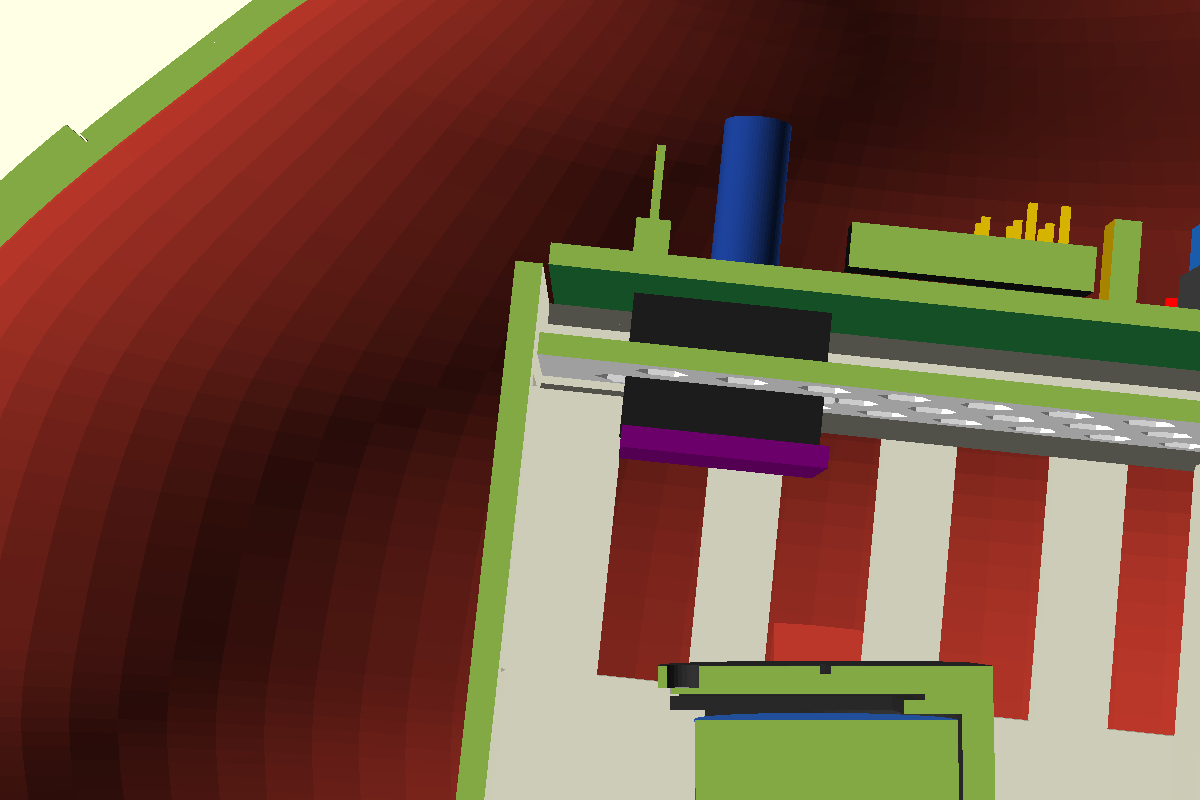
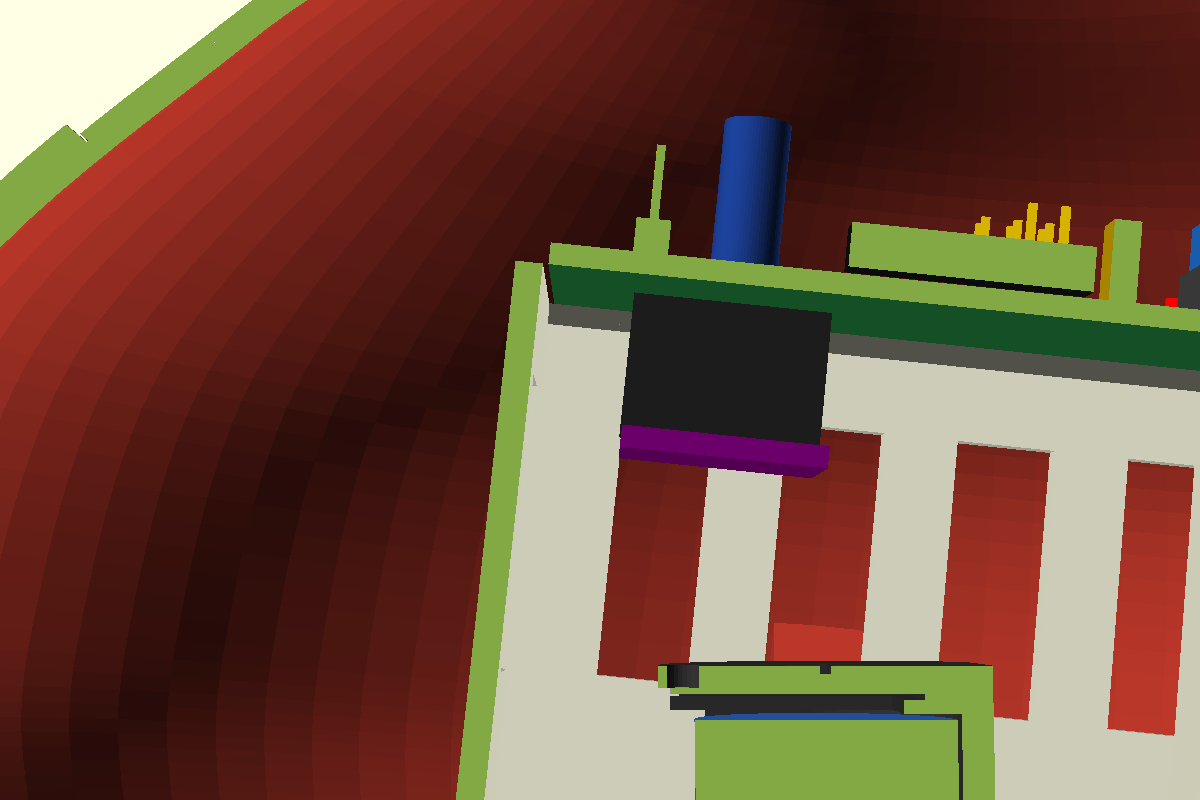
hw: remove the mushroom perforated deck under the board

Changed region(s): [[0.4317, 0.4062, 1.0, 0.5938]]

diff --git a/openscad/update_3mf.py b/openscad/update_3mf.py
@@ -40,7 +40,7 @@ PROJECTS = {
         "scad": "mushroom.scad",
         "parts": {
             "Chapeau": ['part="cap"'], "Lamelles": ['part="gills"'], "Châssis": ['part="chassis"'],
-            "Plancher": ['part="deck"'], "Pied": ['part="stem"'], "Sol": ['part="ground"'],
+            "Pied": ['part="stem"'], "Sol": ['part="ground"'],
             "Berceau": ['part="cradle"'], "Bouchon": ['part="plug"'],
             "Pois": ['part="dots"'],   # every dot, each fitted to its own spot, numbered
         },
@@ -49,11 +49,11 @@ PROJECTS = {
         "settings": {"Chapeau": {"brim_type": "outer_only", "brim_width": "10", "sparse_infill_density": "10%"},
                      "Pied": {"wall_loops": "6"},
                      "Pois": {"enable_support": "1"}},   # curved dots, convex face up: hollow underside
-        # added if missing: plug left of the deck and the cradle; dots centred on their plate (3rd of 7)
+        # added if missing: plug left of the cradle; dots centred on their plate (3rd of 7)
         "add": {"Bouchon": ("Divers", (300.0, -154.0)), "Pois": ("White buttons", (638.0, 110.0))},
         # objects from before the renaming ("OpenSCAD Model"), matched by their source file
         "from_file": {"mushroom_cap": "Chapeau", "mushroom_gills": "Lamelles", "mushroom_chassis": "Châssis",
-                      "mushroom_deck": "Plancher", "mushroom_stem": "Pied", "mushroom_ground": "Sol",
+                      "mushroom_stem": "Pied", "mushroom_ground": "Sol",
                       "mushroom_cradle": "Berceau", "mushroom_plug": "Bouchon"},
     },
     "box.3mf": {   # wall box: print only one of the two bases

diff --git a/openscad/README.md b/openscad/README.md
@@ -34,7 +34,7 @@ Ready-to-slice parts are in `print/`, **one OrcaSlicer project per model**, one 
 | `shield.3mf` | Abri, Assiettes | Chapeau, Fond, Clip (optional); 4 plates |
 | `stand.3mf` | Mât, Pied | table stand, optional |
 | `receiver.3mf` | Pupitre | Coque, Fond: tinyDecoders receiver desk enclosure (Pro Micro, RXB6, OLED), M3×6 cylinder-head screws; wiring: [`hardware/receiver/WIRING.md`](../hardware/receiver/WIRING.md) |
-| `mushroom.3mf` | Ailettes, Hat, White buttons, Ground, Divers, Foot, Support | Chapeau, Lamelles, Châssis, Plancher, Pied, Sol, Berceau, Bouchon, Pois |
+| `mushroom.3mf` | Ailettes, Hat, White buttons, Ground, Divers, Foot, Support | Chapeau, Lamelles, Châssis, Pied, Sol, Berceau, Bouchon, Pois |
 
 Plate and object names are the ones in the Orca projects and in `update_3mf.py` (French, kept as identifiers).
 
@@ -117,7 +117,6 @@ Parts:
 - **Gills** (`gills`): disc closing the underside of the cap, following the narrowest outline of the dome skirt minus 0.4 mm (`disc_fit`) to clear the skirt, 48 radial blades deeper near the stem (`gill_depth`), cut short around the 7 screws driven from below (dome and chassis, `screw_clear` 4.5 mm for the head and the screwdriver) instead of being left out, vent slots between the blades under the sensor chamber (including on the +X side, at 0° and ±7.5°, flush with the +X edge of the BME280), USB socket opening, central sleeve taking the stem tenon. Prints blades up.
 - **Chassis** (`chassis`) screwed onto the disc (4 M3 screws from below), printed upright:
   - lower chamber (48 mm, `chamber_h`), ventilated: **BME280 plugged under the board**, no wire or slide (see *Wiring*); the breakout hangs parallel to the board, sensor towards the disc, 42 mm above the disc; chassis windows at the top of the chamber (`win_h`), so that air flows past the sensor. The top of the cradle goes 30 mm through the disc (Ø37 hole, `disc_bore`) and ends 12 mm below the breakout, with the JST-XH pair;
-  - **perforated deck** (`deck`) on supports, with a 17.2 × 4.5 mm window for the female header;
   - **cut-down v2.2 board** (60 × 39 mm, along the silkscreen dotted lines x = 147 / y = 87, without the 18650 and CR2032 holders): turned 180° (J1 on −X), 2 M2.5 screws (MH5, top MH1), the bottom edge rests on a ledge. The cell arrives on **J13 "RAW IN"** (`+BATT`/`GND`);
   - slide for the TP4056 **charge module**, upright on the side, **micro-USB facing down** between two gills.
 - **Stem** (`stem`) as a **fly-agaric pear** after a sketch: slender, lopsided bulbous base (~76 × 72 mm at the belly; on the table 22 mm from the axis on the short side, 39 mm on the long side), neck Ø41 to 45 at the ring, Ø45 under the sleeve, hollow (Ø29.4) to the top: takes the cell cradle, inserted from the top, sitting 72 mm above the ground. Underneath, a closed **ballast chamber** following the stem shape (2.4 mm wall, `ballast_wall`, bulb included), conical ceiling at 45° up to 70 mm (`ballast_h`): ~146 cm³, i.e. ~690 g of 1 mm steel shot if filled. Filled through a Ø15 hole in the bottom, closed by a **plug** (`plug`, Ø21 × 1.2 mm) glued into a counterbore, flush with the underside. Same spirit as the cap:
@@ -147,12 +146,12 @@ The top-view outline is a convex ellipse, `ell_ratio` = minor / major axis (0.8 
 
 ### Assembly, cell
 
-![Exploded view: ground and stem, cell, gill disc, chassis and charger, perforated deck, board + BME280, dome](rendu_champignon_eclate.png)
+![Exploded view: ground and stem, cell, gill disc, chassis and charger, board + BME280, dome](rendu_champignon_eclate.png)
 
 0. Stem upside down: shot through the bottom hole (a few drops of glue to freeze it and stop it rattling), plug glued into its counterbore (epoxy), then stem glued onto the ground.
 1. Board: solder a **2.54 mm 1×6 female header** on the **underside** of the board, in the "I2C" footprint; the "I2C" and "I2C_SPI" JSTs are not fitted (see *Wiring*). On the breakout, solder its male header so that the chip faces the disc once plugged in (breakout body towards the inside of the chassis, to check for your breakout model).
 2. Charge module: solder W5 / W6 (red / black, 70 mm, OUT+ / OUT− soldered → J13 screw terminal). W3 / W4 are soldered in step 3: the JST-XH housing (~7.4 × 5.8 mm) barely fits through the window of the +Y wall (8 mm wide), so the bare end is passed through.
-3. Deck placed in the chassis, board screwed on top (the female header goes through the deck window); chassis upside down, BME280 plugged in from the open underside of the chassis. Charge module in its slide; W5 / W6 (red / black, 70 mm, TP4056 soldered → screw terminal) screwed into J13; W3 / W4 (red / black, 100 mm, TP4056 soldered → JST-XH M): JST-XH M already crimped, chamber side; push the other, bare end from inside the chamber outwards through the +Y wall window (x = 22), then solder it to B+ / B− of the TP4056; the JST side stays in the chamber, above the cradle. Finally chassis onto the gill disc (4 screws from below).
+3. Board screwed on top of the chassis; chassis upside down, BME280 plugged in from the open underside of the chassis. Charge module in its slide; W5 / W6 (red / black, 70 mm, TP4056 soldered → screw terminal) screwed into J13; W3 / W4 (red / black, 100 mm, TP4056 soldered → JST-XH M): JST-XH M already crimped, chamber side; push the other, bare end from inside the chamber outwards through the +Y wall window (x = 22), then solder it to B+ / B− of the TP4056; the JST side stays in the chamber, above the cradle. Finally chassis onto the gill disc (4 screws from below).
 4. Gill disc pushed into the dome up to the 3 corbels, 3 M3 × 10 self-tapping screws from below (heads between the gills). The 433 MHz module antenna goes straight up from J1 into the top of the gourd.
 5. Cradle: contacts in the grooves, W1 red 40 mm / W2 black 110 mm soldered at the top of the tabs, out through the end notches (W2 runs along the cell in the top slot) → JST-XH F; cell clipped in; cradle into the stem from the top (spring at the bottom).
 6. Cap held ~50 mm above the stem, plug the JST-XH pair, tuck it into the chamber just above the cradle (central hole of the disc), cap fitted on the tenon, radial screw.
@@ -196,7 +195,7 @@ Routing:
 
 - Cradle (1st print): barely fitted into the stem and the "−" wire did not pass (notch cut with pliers). Fixed for the next print: `cr_fit` clearance 0.8, deeper contact grooves (`bt_sink`), tabs up, wire notch at each end (`wire_notch`).
 - Dimensions to measure: contacts (sheet thickness `bt_t`, compressed spring `spring_c`), position of the charge module socket (`usb_cut`), BME breakout (`bme_w/d`, `bme_edge`, female header height `fh_h`).
-- No air gap between the dome and the board: the sensor is under the deck, ventilated from below; solar heating to check by measurement.
+- No air gap between the dome and the board: the sensor is under the board, ventilated from below; solar heating to check by measurement.
 - Stability: set by the ballast and the glued ground, to check once printed. The 2026-11 estimate (~15° empty, ~28° full) was for the fatter stem (support radius ~38 mm, ~1 kg of ballast); the slender stem stands 22 mm from the axis on its short side (+X) and holds ~690 g, so it tips over sooner on that side without the ground. Partial filling is enough: freeze it with glue, stem upright.
 
 ## Screws and fixings
